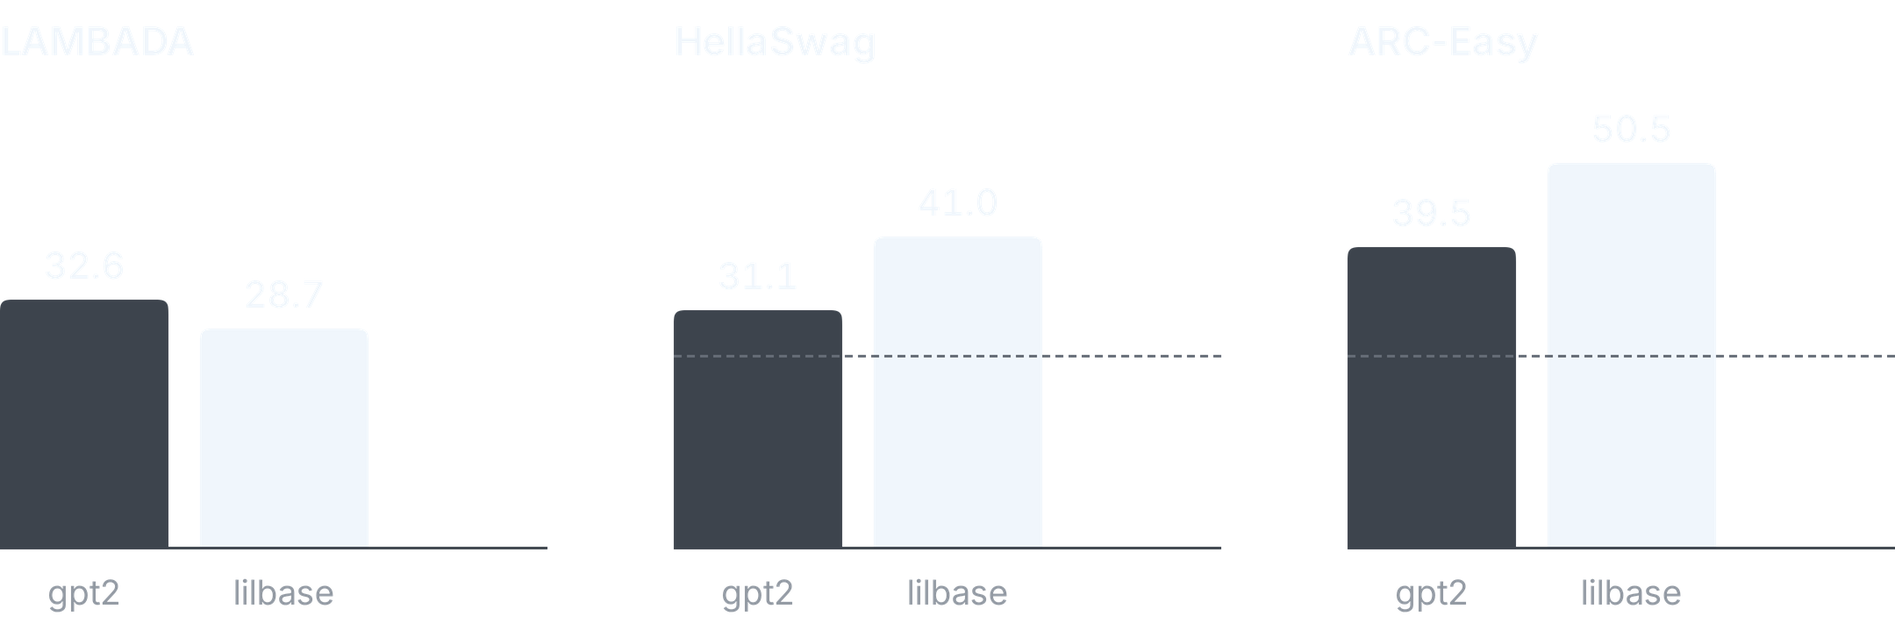
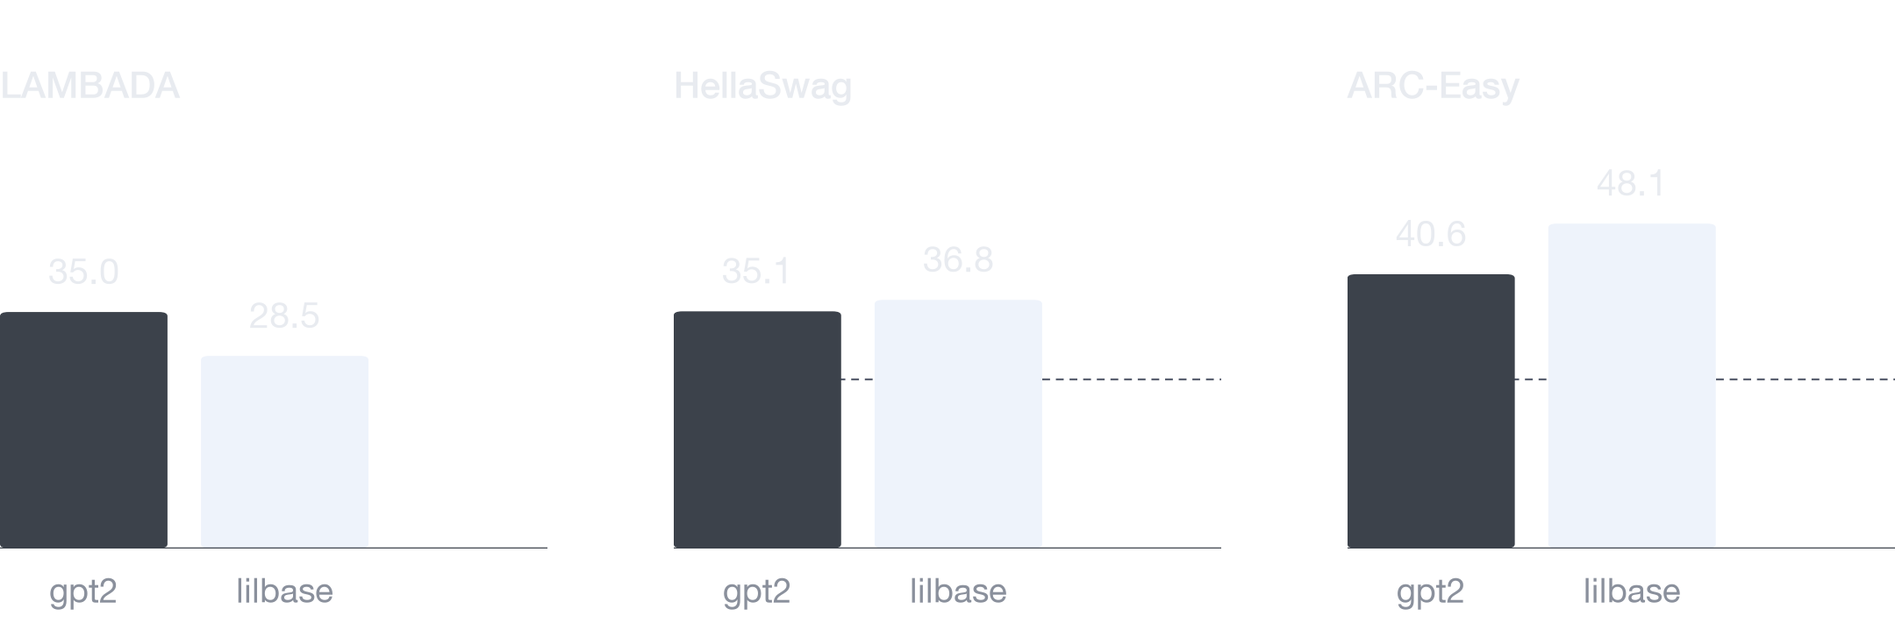
final gpt-2 benchmark numbers, lilbase hellaswag fixed

diff --git a/work/sprout.html b/work/sprout.html
@@ -226,22 +226,24 @@
 <div class="cs-sec" data-reveal data-label="vs gpt-2">
         <h2 class="cs-h">vs gpt-2</h2>
         <div class="cs-text">
-          <p>i put sprout through the same test script as openai's gpt-2, which came out in 2019 in four sizes, from 124m up to 1.5b params. lilbase is in there too. each test is a few thousand questions none of the models trained on, every model gets the exact same ones, and it all runs on my macbook.</p>
-          <p>on <strong>arc-easy</strong>, which is grade school science questions, sprout gets <strong>50.3%</strong> and lilbase gets 48.1%. both beat gpt-2 medium at 44.7%, and lilbase is smaller than it. on <strong>lambada</strong>, where you guess the last word of a passage from a novel, gpt-2 wins: medium gets 44.3%, sprout 39.2% and lilbase 28.5%.</p>
-          <div class="fig bench" data-live><div class="bench-grid"><div class="bench-panel"><p class="bench-title"><b>arc-easy</b> <span>grade school science questions</span></p><svg viewBox="0 0 300 230" role="img" aria-label="arc-easy: score against model size" font-family="Geist, Helvetica Neue, Helvetica, sans-serif" font-size="11" fill="#929292"><line class="b-grid" stroke="#ececea" stroke-width="1" x1="34" x2="286" y1="190.0" y2="190.0"/><text x="28" y="194.0" text-anchor="end">35%</text><line class="b-grid" stroke="#ececea" stroke-width="1" x1="34" x2="286" y1="146.5" y2="146.5"/><text x="28" y="150.5" text-anchor="end">40%</text><line class="b-grid" stroke="#ececea" stroke-width="1" x1="34" x2="286" y1="103.0" y2="103.0"/><text x="28" y="107.0" text-anchor="end">45%</text><line class="b-grid" stroke="#ececea" stroke-width="1" x1="34" x2="286" y1="59.5" y2="59.5"/><text x="28" y="63.5" text-anchor="end">50%</text><line class="b-grid" stroke="#ececea" stroke-width="1" x1="34" x2="286" y1="16.0" y2="16.0"/><text x="28" y="20.0" text-anchor="end">55%</text><text x="52.1" y="208" text-anchor="middle">124m</text><text x="140.6" y="208" text-anchor="middle">355m</text><text x="206.1" y="208" text-anchor="middle">774m</text><text x="265.0" y="208" text-anchor="middle">1.5b</text><text x="160.0" y="226" text-anchor="middle" class="b-axis" fill="#767676">model size (params)</text><path class="b-gpt2" fill="none" stroke="#c9c9c6" stroke-width="2" stroke-linejoin="round" d="M52.4 141.2 L140.5 105.6"/><circle class="b-gpt2-dot" fill="#c9c9c6" cx="52.4" cy="141.2" r="3.5"/><text class="b-gpt2-lab" font-size="10" x="52.4" y="156.2" text-anchor="middle">small</text><circle class="b-gpt2-dot" fill="#c9c9c6" cx="140.5" cy="105.6" r="3.5"/><text class="b-gpt2-lab" font-size="10" x="140.5" y="120.6" text-anchor="middle">medium</text><circle class="b-me" fill="#0f0f0f" cx="173.1" cy="57.3" r="5"/><text class="b-me-lab" fill="#0f0f0f" font-size="11.5" font-weight="500" x="173.1" y="46.3" text-anchor="middle">sprout 50.3</text><circle class="b-me2" fill="#ffffff" stroke="#0f0f0f" stroke-width="1.6" cx="125.6" cy="76.0" r="5"/><text class="b-me-lab" fill="#0f0f0f" font-size="11.5" font-weight="500" x="125.6" y="65.0" text-anchor="middle">lilbase 48.1</text></svg></div><div class="bench-panel"><p class="bench-title"><b>lambada</b> <span>guessing the last word of a passage</span></p><svg viewBox="0 0 300 230" role="img" aria-label="lambada: score against model size" font-family="Geist, Helvetica Neue, Helvetica, sans-serif" font-size="11" fill="#929292"><line class="b-grid" stroke="#ececea" stroke-width="1" x1="34" x2="286" y1="190.0" y2="190.0"/><text x="28" y="194.0" text-anchor="end">25%</text><line class="b-grid" stroke="#ececea" stroke-width="1" x1="34" x2="286" y1="155.2" y2="155.2"/><text x="28" y="159.2" text-anchor="end">30%</text><line class="b-grid" stroke="#ececea" stroke-width="1" x1="34" x2="286" y1="120.4" y2="120.4"/><text x="28" y="124.4" text-anchor="end">35%</text><line class="b-grid" stroke="#ececea" stroke-width="1" x1="34" x2="286" y1="85.6" y2="85.6"/><text x="28" y="89.6" text-anchor="end">40%</text><line class="b-grid" stroke="#ececea" stroke-width="1" x1="34" x2="286" y1="50.8" y2="50.8"/><text x="28" y="54.8" text-anchor="end">45%</text><line class="b-grid" stroke="#ececea" stroke-width="1" x1="34" x2="286" y1="16.0" y2="16.0"/><text x="28" y="20.0" text-anchor="end">50%</text><text x="52.1" y="208" text-anchor="middle">124m</text><text x="140.6" y="208" text-anchor="middle">355m</text><text x="206.1" y="208" text-anchor="middle">774m</text><text x="265.0" y="208" text-anchor="middle">1.5b</text><text x="160.0" y="226" text-anchor="middle" class="b-axis" fill="#767676">model size (params)</text><path class="b-gpt2" fill="none" stroke="#c9c9c6" stroke-width="2" stroke-linejoin="round" d="M52.4 120.4 L140.5 55.7"/><circle class="b-gpt2-dot" fill="#c9c9c6" cx="52.4" cy="120.4" r="3.5"/><text class="b-gpt2-lab" font-size="10" x="52.4" y="135.4" text-anchor="middle">small</text><circle class="b-gpt2-dot" fill="#c9c9c6" cx="140.5" cy="55.7" r="3.5"/><text class="b-gpt2-lab" font-size="10" x="140.5" y="70.7" text-anchor="middle">medium</text><circle class="b-me" fill="#0f0f0f" cx="173.1" cy="90.8" r="5"/><text class="b-me-lab" fill="#0f0f0f" font-size="11.5" font-weight="500" x="173.1" y="109.8" text-anchor="middle">sprout 39.2</text><circle class="b-me2" fill="#ffffff" stroke="#0f0f0f" stroke-width="1.6" cx="125.6" cy="165.6" r="5"/><text class="b-me-lab" fill="#0f0f0f" font-size="11.5" font-weight="500" x="125.6" y="184.6" text-anchor="middle">lilbase 28.5</text></svg></div></div><div class="bench-key"><span><i class="k-me"></i>sprout (chat version), 523m</span><span><i class="k-me2"></i>lilbase, 297m</span><span><i class="k-gpt2"></i>openai gpt-2, 2 sizes so far</span></div><p class="cap muted">higher is better. a dot above the grey line beats a gpt-2 of the same size. same test script for every model, on my macbook</p></div>
+          <p>i put sprout through the same test script as openai gpt-2, which came out in 2019 in four sizes, from 124m up to 1.5b params. lilbase is in there too. each test is a few thousand questions none of the models trained on, every model gets the exact same ones, and it all runs on my macbook.</p>
+          <p>on <strong>arc-easy</strong>, which is grade school science questions, sprout gets <strong>50.2%</strong> and beats every gpt-2, even xl at 49.8%, which is three times its size. lilbase gets 48.1%, ahead of small and medium and basically tied with large. on <strong>hellaswag</strong>, where you pick the ending that makes sense for a short everyday story, sprout gets 40.6%, level with gpt-2 medium (40.2%) and behind large and xl. lilbase just edges out gpt-2 small, 36.8% to 35.1%. on <strong>lambada</strong>, where you guess the last word of a passage from a novel, gpt-2 wins clearly: sprout gets 39.2%, between small and medium, and lilbase 28.5%.</p>
+          <div class="fig bench" data-live><div class="bench-grid"><div class="bench-panel"><p class="bench-title"><b>hellaswag</b> <span>picking the sensible ending to a short scene</span></p><svg viewBox="0 0 300 230" role="img" aria-label="hellaswag: score against model size" font-family="Geist, Helvetica Neue, Helvetica, sans-serif" font-size="11" fill="#929292"><line class="b-grid" stroke="#ececea" stroke-width="1" x1="34" x2="286" y1="190.0" y2="190.0"/><text x="28" y="194.0" text-anchor="end">30%</text><line class="b-grid" stroke="#ececea" stroke-width="1" x1="34" x2="286" y1="146.5" y2="146.5"/><text x="28" y="150.5" text-anchor="end">35%</text><line class="b-grid" stroke="#ececea" stroke-width="1" x1="34" x2="286" y1="103.0" y2="103.0"/><text x="28" y="107.0" text-anchor="end">40%</text><line class="b-grid" stroke="#ececea" stroke-width="1" x1="34" x2="286" y1="59.5" y2="59.5"/><text x="28" y="63.5" text-anchor="end">45%</text><line class="b-grid" stroke="#ececea" stroke-width="1" x1="34" x2="286" y1="16.0" y2="16.0"/><text x="28" y="20.0" text-anchor="end">50%</text><text x="52.1" y="208" text-anchor="middle">124m</text><text x="140.6" y="208" text-anchor="middle">355m</text><text x="206.1" y="208" text-anchor="middle">774m</text><text x="265.0" y="208" text-anchor="middle">1.5b</text><text x="160.0" y="226" text-anchor="middle" class="b-axis" fill="#767676">model size (params)</text><path class="b-gpt2" fill="none" stroke="#c9c9c6" stroke-width="2" stroke-linejoin="round" d="M52.4 145.6 L140.5 101.3 L206.1 81.2 L265.0 49.9"/><circle class="b-gpt2-dot" fill="#c9c9c6" cx="52.4" cy="145.6" r="3.5"/><text class="b-gpt2-lab" font-size="10" x="52.4" y="160.6" text-anchor="middle">small</text><circle class="b-gpt2-dot" fill="#c9c9c6" cx="140.5" cy="101.3" r="3.5"/><text class="b-gpt2-lab" font-size="10" x="140.5" y="116.3" text-anchor="middle">medium</text><circle class="b-gpt2-dot" fill="#c9c9c6" cx="206.1" cy="81.2" r="3.5"/><text class="b-gpt2-lab" font-size="10" x="206.1" y="96.2" text-anchor="middle">large</text><circle class="b-gpt2-dot" fill="#c9c9c6" cx="265.0" cy="49.9" r="3.5"/><text class="b-gpt2-lab" font-size="10" x="265.0" y="64.9" text-anchor="middle">xl</text><circle class="b-me" fill="#0f0f0f" cx="173.1" cy="98.2" r="5"/><text class="b-me-lab" fill="#0f0f0f" font-size="11.5" font-weight="500" x="173.1" y="87.2" text-anchor="middle">sprout 40.6</text><circle class="b-me2" fill="#ffffff" stroke="#0f0f0f" stroke-width="1.6" cx="125.6" cy="131.3" r="5"/><text class="b-me-lab" fill="#0f0f0f" font-size="11.5" font-weight="500" x="125.6" y="150.3" text-anchor="middle">lilbase 36.8</text></svg></div><div class="bench-panel"><p class="bench-title"><b>arc-easy</b> <span>grade school science questions</span></p><svg viewBox="0 0 300 230" role="img" aria-label="arc-easy: score against model size" font-family="Geist, Helvetica Neue, Helvetica, sans-serif" font-size="11" fill="#929292"><line class="b-grid" stroke="#ececea" stroke-width="1" x1="34" x2="286" y1="190.0" y2="190.0"/><text x="28" y="194.0" text-anchor="end">35%</text><line class="b-grid" stroke="#ececea" stroke-width="1" x1="34" x2="286" y1="146.5" y2="146.5"/><text x="28" y="150.5" text-anchor="end">40%</text><line class="b-grid" stroke="#ececea" stroke-width="1" x1="34" x2="286" y1="103.0" y2="103.0"/><text x="28" y="107.0" text-anchor="end">45%</text><line class="b-grid" stroke="#ececea" stroke-width="1" x1="34" x2="286" y1="59.5" y2="59.5"/><text x="28" y="63.5" text-anchor="end">50%</text><line class="b-grid" stroke="#ececea" stroke-width="1" x1="34" x2="286" y1="16.0" y2="16.0"/><text x="28" y="20.0" text-anchor="end">55%</text><text x="52.1" y="208" text-anchor="middle">124m</text><text x="140.6" y="208" text-anchor="middle">355m</text><text x="206.1" y="208" text-anchor="middle">774m</text><text x="265.0" y="208" text-anchor="middle">1.5b</text><text x="160.0" y="226" text-anchor="middle" class="b-axis" fill="#767676">model size (params)</text><path class="b-gpt2" fill="none" stroke="#c9c9c6" stroke-width="2" stroke-linejoin="round" d="M52.4 141.2 L140.5 105.6 L206.1 72.7 L265.0 61.0"/><circle class="b-gpt2-dot" fill="#c9c9c6" cx="52.4" cy="141.2" r="3.5"/><text class="b-gpt2-lab" font-size="10" x="52.4" y="156.2" text-anchor="middle">small</text><circle class="b-gpt2-dot" fill="#c9c9c6" cx="140.5" cy="105.6" r="3.5"/><text class="b-gpt2-lab" font-size="10" x="140.5" y="120.6" text-anchor="middle">medium</text><circle class="b-gpt2-dot" fill="#c9c9c6" cx="206.1" cy="72.7" r="3.5"/><text class="b-gpt2-lab" font-size="10" x="206.1" y="87.7" text-anchor="middle">large</text><circle class="b-gpt2-dot" fill="#c9c9c6" cx="265.0" cy="61.0" r="3.5"/><text class="b-gpt2-lab" font-size="10" x="265.0" y="76.0" text-anchor="middle">xl</text><circle class="b-me" fill="#0f0f0f" cx="173.1" cy="57.3" r="5"/><text class="b-me-lab" fill="#0f0f0f" font-size="11.5" font-weight="500" x="173.1" y="46.3" text-anchor="middle">sprout 50.3</text><circle class="b-me2" fill="#ffffff" stroke="#0f0f0f" stroke-width="1.6" cx="125.6" cy="76.0" r="5"/><text class="b-me-lab" fill="#0f0f0f" font-size="11.5" font-weight="500" x="125.6" y="65.0" text-anchor="middle">lilbase 48.1</text></svg></div><div class="bench-panel"><p class="bench-title"><b>lambada</b> <span>guessing the last word of a passage</span></p><svg viewBox="0 0 300 230" role="img" aria-label="lambada: score against model size" font-family="Geist, Helvetica Neue, Helvetica, sans-serif" font-size="11" fill="#929292"><line class="b-grid" stroke="#ececea" stroke-width="1" x1="34" x2="286" y1="190.0" y2="190.0"/><text x="28" y="194.0" text-anchor="end">25%</text><line class="b-grid" stroke="#ececea" stroke-width="1" x1="34" x2="286" y1="132.0" y2="132.0"/><text x="28" y="136.0" text-anchor="end">35%</text><line class="b-grid" stroke="#ececea" stroke-width="1" x1="34" x2="286" y1="74.0" y2="74.0"/><text x="28" y="78.0" text-anchor="end">45%</text><line class="b-grid" stroke="#ececea" stroke-width="1" x1="34" x2="286" y1="16.0" y2="16.0"/><text x="28" y="20.0" text-anchor="end">55%</text><text x="52.1" y="208" text-anchor="middle">124m</text><text x="140.6" y="208" text-anchor="middle">355m</text><text x="206.1" y="208" text-anchor="middle">774m</text><text x="265.0" y="208" text-anchor="middle">1.5b</text><text x="160.0" y="226" text-anchor="middle" class="b-axis" fill="#767676">model size (params)</text><path class="b-gpt2" fill="none" stroke="#c9c9c6" stroke-width="2" stroke-linejoin="round" d="M52.4 132.0 L140.5 78.1 L206.1 52.8 L265.0 38.0"/><circle class="b-gpt2-dot" fill="#c9c9c6" cx="52.4" cy="132.0" r="3.5"/><text class="b-gpt2-lab" font-size="10" x="52.4" y="147.0" text-anchor="middle">small</text><circle class="b-gpt2-dot" fill="#c9c9c6" cx="140.5" cy="78.1" r="3.5"/><text class="b-gpt2-lab" font-size="10" x="140.5" y="93.1" text-anchor="middle">medium</text><circle class="b-gpt2-dot" fill="#c9c9c6" cx="206.1" cy="52.8" r="3.5"/><text class="b-gpt2-lab" font-size="10" x="206.1" y="67.8" text-anchor="middle">large</text><circle class="b-gpt2-dot" fill="#c9c9c6" cx="265.0" cy="38.0" r="3.5"/><text class="b-gpt2-lab" font-size="10" x="265.0" y="53.0" text-anchor="middle">xl</text><circle class="b-me" fill="#0f0f0f" cx="173.1" cy="107.4" r="5"/><text class="b-me-lab" fill="#0f0f0f" font-size="11.5" font-weight="500" x="173.1" y="126.4" text-anchor="middle">sprout 39.2</text><circle class="b-me2" fill="#ffffff" stroke="#0f0f0f" stroke-width="1.6" cx="125.6" cy="169.7" r="5"/><text class="b-me-lab" fill="#0f0f0f" font-size="11.5" font-weight="500" x="125.6" y="188.7" text-anchor="middle">lilbase 28.5</text></svg></div></div><div class="bench-key"><span><i class="k-me"></i>sprout (chat version), 523m</span><span><i class="k-me2"></i>lilbase, 297m</span><span><i class="k-gpt2"></i>openai gpt-2, 4 sizes</span></div><p class="cap muted">higher is better. a dot above the grey line beats a gpt-2 of the same size. same test script for every model, on my macbook</p></div>
           <details class="table-view">
           <summary>see the numbers</summary>
           <table>
-            <thead><tr><th>model</th><th class="num">params</th><th class="num">arc-easy</th><th class="num">lambada</th></tr></thead>
+            <thead><tr><th>model</th><th class="num">params</th><th class="num">hellaswag</th><th class="num">arc-easy</th><th class="num">lambada</th></tr></thead>
             <tbody>
-            <tr><td>gpt-2 small</td><td class="num">124m</td><td class="num">40.6%</td><td class="num">35.0%</td></tr>
-            <tr><td>lilbase</td><td class="num">297m</td><td class="num">48.1%</td><td class="num">28.5%</td></tr>
-            <tr><td>gpt-2 medium</td><td class="num">355m</td><td class="num">44.7%</td><td class="num">44.3%</td></tr>
-            <tr class="hi"><td>sprout (chat)</td><td class="num">523m</td><td class="num">50.3%</td><td class="num">39.2%</td></tr>
+            <tr><td>gpt-2 small</td><td class="num">124m</td><td class="num">35.1%</td><td class="num">40.6%</td><td class="num">35.0%</td></tr>
+            <tr><td>lilbase</td><td class="num">297m</td><td class="num">36.8%</td><td class="num">48.1%</td><td class="num">28.5%</td></tr>
+            <tr><td>gpt-2 medium</td><td class="num">355m</td><td class="num">40.2%</td><td class="num">44.7%</td><td class="num">44.3%</td></tr>
+            <tr class="hi"><td>sprout (chat)</td><td class="num">523m</td><td class="num">40.6%</td><td class="num">50.3%</td><td class="num">39.2%</td></tr>
+            <tr><td>gpt-2 large</td><td class="num">774m</td><td class="num">42.5%</td><td class="num">48.5%</td><td class="num">48.6%</td></tr>
+            <tr><td>gpt-2 xl</td><td class="num">1.5b</td><td class="num">46.1%</td><td class="num">49.8%</td><td class="num">51.2%</td></tr>
             </tbody>
           </table>
         </details>
-          <p>this is the chat version of sprout, the base weights are still on kaggle, and chat finetuning usually costs a few points on tests like these. gpt-2 large and xl are still running, and hellaswag is getting rerun because of a bug in how it was scored (the story and the answer got glued together with no space). ill update this when theyre done.</p>
+          <p>so sprout is about as good as a gpt-2 its size, better on science questions and worse at finishing sentences from books. my guess is the data. sprout mostly read educational web pages and textbook style text, gpt-2 read pages people linked on reddit, and lambada is all novels. this is also the chat version, the base weights are still on kaggle, and chat finetuning usually costs a few points on tests like these.</p>
         </div>
       </div>
 
@@ -251,7 +253,7 @@
         <div class="cs-text">
           <p><strong>one:</strong> beat gpt-2 xl, which is 1.5b params, or get close to it.</p>
           <p><strong>two:</strong> finetune it into a competitive coding model at around 500m.</p>
-          <p>the first benchmark results are above. gpt-2 large and xl are still running.</p>
+          <p>the benchmark results are above. sprout beats gpt-2 xl on arc-easy but not on hellaswag or lambada yet, so goal one is about a third done.</p>
         </div>
       </div>
     </section>

diff --git a/work/lilbase.html b/work/lilbase.html
@@ -79,16 +79,16 @@
           <div class="legend"><span><i style="background: var(--ink)"></i>lilbase, 297m</span><span><i style="background: #c9c9c6"></i>gpt-2 small, 124m</span></div>
           <div class="hbars">
             <div class="hbar-group"><span>hellaswag</span>
-              <div class="hbar" style="--k: 0"><b style="--w: 68.3%; background: var(--ink)"></b><em>41.0%</em></div>
-              <div class="hbar" style="--k: 1"><b style="--w: 51.8%; background: #c9c9c6"></b><em>31.1%</em></div>
+              <div class="hbar" style="--k: 0"><b style="--w: 61.3%; background: var(--ink)"></b><em>36.8%</em></div>
+              <div class="hbar" style="--k: 1"><b style="--w: 58.5%; background: #c9c9c6"></b><em>35.1%</em></div>
             </div>
             <div class="hbar-group"><span>arc-easy</span>
-              <div class="hbar" style="--k: 2"><b style="--w: 84.2%; background: var(--ink)"></b><em>50.5%</em></div>
-              <div class="hbar" style="--k: 3"><b style="--w: 65.8%; background: #c9c9c6"></b><em>39.5%</em></div>
+              <div class="hbar" style="--k: 2"><b style="--w: 80.2%; background: var(--ink)"></b><em>48.1%</em></div>
+              <div class="hbar" style="--k: 3"><b style="--w: 67.7%; background: #c9c9c6"></b><em>40.6%</em></div>
             </div>
             <div class="hbar-group"><span>lambada</span>
-              <div class="hbar" style="--k: 4"><b style="--w: 47.8%; background: var(--ink)"></b><em>28.7%</em></div>
-              <div class="hbar" style="--k: 5"><b style="--w: 54.3%; background: #c9c9c6"></b><em>32.6%</em></div>
+              <div class="hbar" style="--k: 4"><b style="--w: 47.5%; background: var(--ink)"></b><em>28.5%</em></div>
+              <div class="hbar" style="--k: 5"><b style="--w: 58.3%; background: #c9c9c6"></b><em>35.0%</em></div>
             </div>
           </div>
           <details class="table-view">
@@ -96,9 +96,9 @@
             <table>
               <thead><tr><th>benchmark</th><th class="num">lilbase</th><th class="num">gpt-2 124m</th></tr></thead>
               <tbody>
-              <tr><td>hellaswag</td><td class="num">41.0%</td><td class="num">31.1%</td></tr>
-              <tr><td>arc-easy</td><td class="num">50.5%</td><td class="num">39.5%</td></tr>
-              <tr><td>lambada</td><td class="num">28.7%</td><td class="num">32.6%</td></tr>
+              <tr><td>hellaswag</td><td class="num">36.8%</td><td class="num">35.1%</td></tr>
+              <tr><td>arc-easy</td><td class="num">48.1%</td><td class="num">40.6%</td></tr>
+              <tr><td>lambada</td><td class="num">28.5%</td><td class="num">35.0%</td></tr>
               </tbody>
             </table>
           </details>
@@ -161,9 +161,10 @@
       <div class="cs-sec" data-reveal data-label="how it did">
         <h2 class="cs-h">how it did</h2>
         <div class="cs-text">
-          <p>every model goes through the same script, zero shot: the first 2000 hellaswag validation examples, 2000 lambada examples and the full arc-easy test set. multiple choice is scored by log likelihood, normalised by the length of each answer, and every sequence starts with an end of text token, the same way training did. <a href="https://github.com/navthings/lilbase/blob/main/eval/compare.py" target="_blank" rel="noopener">the script</a> is in the repo.</p>
+          <p>every model goes through the same script, zero shot: the first 2000 hellaswag validation examples, 2000 lambada examples and the full arc-easy test set. multiple choice is scored by log likelihood, normalised by the length of each answer, and every sequence starts with an end of text token, the same way training did. <a href="https://github.com/navthings/sprout/blob/main/eval/bench.py" target="_blank" rel="noopener">the script</a> lives in the sprout repo now, where lilbase gets tested alongside sprout and all four gpt-2 sizes.</p>
           <p>it beats gpt-2 small on hellaswag and arc-easy and loses on lambada. to be fair gpt-2 is from 2019, trained on different data, and lilbase is more than twice its size, so its not exactly a fair fight lol.</p>
-          <p>lambada perplexity came out at <strong>57.37</strong>. the learning rate was 4e-4, a bit above the 3e-4 gpt-3 350m used at a similar batch size, so slightly optimistic.</p>
+          <p>the old script, a smaller earlier test run, had lilbase way further ahead on hellaswag (41.0% vs 31.1%). rerunning everything through one fixed script, with the exact same questions for every model, its 36.8% vs 35.1%, so it still wins but only just.</p>
+          <p>lambada perplexity came out at <strong>53.78</strong>. the learning rate was 4e-4, a bit above the 3e-4 gpt-3 350m used at a similar batch size, so slightly optimistic.</p>
           <p>its a base model, so it just continues whatever you give it instead of answering. it gets grammar right and makes up most facts.</p>
           <code class="cmd sq">ollama run navthings/lilbase "The water cycle begins when"</code>
         </div>

diff --git a/index.html b/index.html
@@ -147,16 +147,16 @@
             <div class="legend"><span><i style="background: var(--ink)"></i>lilbase</span><span><i style="background: #c9c9c6"></i>gpt-2 small, 124m</span></div>
             <div class="hbars">
               <div class="hbar-group"><span>hellaswag</span>
-                <div class="hbar" style="--k: 0"><b style="--w: 68.3%; background: var(--ink)"></b><em>41.0%</em></div>
-                <div class="hbar" style="--k: 1"><b style="--w: 51.8%; background: #c9c9c6"></b><em>31.1%</em></div>
+                <div class="hbar" style="--k: 0"><b style="--w: 61.3%; background: var(--ink)"></b><em>36.8%</em></div>
+                <div class="hbar" style="--k: 1"><b style="--w: 58.5%; background: #c9c9c6"></b><em>35.1%</em></div>
               </div>
               <div class="hbar-group"><span>arc-easy</span>
-                <div class="hbar" style="--k: 2"><b style="--w: 84.2%; background: var(--ink)"></b><em>50.5%</em></div>
-                <div class="hbar" style="--k: 3"><b style="--w: 65.8%; background: #c9c9c6"></b><em>39.5%</em></div>
+                <div class="hbar" style="--k: 2"><b style="--w: 80.2%; background: var(--ink)"></b><em>48.1%</em></div>
+                <div class="hbar" style="--k: 3"><b style="--w: 67.7%; background: #c9c9c6"></b><em>40.6%</em></div>
               </div>
               <div class="hbar-group"><span>lambada</span>
-                <div class="hbar" style="--k: 4"><b style="--w: 47.8%; background: var(--ink)"></b><em>28.7%</em></div>
-                <div class="hbar" style="--k: 5"><b style="--w: 54.3%; background: #c9c9c6"></b><em>32.6%</em></div>
+                <div class="hbar" style="--k: 4"><b style="--w: 47.5%; background: var(--ink)"></b><em>28.5%</em></div>
+                <div class="hbar" style="--k: 5"><b style="--w: 58.3%; background: #c9c9c6"></b><em>35.0%</em></div>
               </div>
             </div>
           </div>

diff --git a/blog/lilbase.html b/blog/lilbase.html
@@ -86,12 +86,13 @@
         <table data-reveal>
         <thead><tr><th>benchmark</th><th class="num">lilbase</th><th class="num">gpt-2 124m</th></tr></thead>
         <tbody>
-        <tr><td>hellaswag</td><td class="num">41.0%</td><td class="num">31.1%</td></tr>
-        <tr><td>arc-easy</td><td class="num">50.5%</td><td class="num">39.5%</td></tr>
-        <tr><td>lambada</td><td class="num">28.7%</td><td class="num">32.6%</td></tr>
+        <tr><td>hellaswag</td><td class="num">36.8%</td><td class="num">35.1%</td></tr>
+        <tr><td>arc-easy</td><td class="num">48.1%</td><td class="num">40.6%</td></tr>
+        <tr><td>lambada</td><td class="num">28.5%</td><td class="num">35.0%</td></tr>
         </tbody>
         </table>
         <p data-reveal>it beats gpt-2 small on hellaswag and arc-easy and loses on lambada. to be fair gpt-2 is from 2019, trained on different data, and lilbase is more than twice its size, so its not exactly a fair fight lol</p>
+        <p data-reveal>update: the old script, a smaller earlier test run, had lilbase way further ahead on hellaswag (41.0% vs 31.1%). rerunning everything through one fixed script, with the exact same questions for every model, its 36.8% vs 35.1%, so it still wins but only just.</p>
         <p data-reveal>stuff that went wrong: kaggle sometimes gives you a broken tpu with only 1 chip working instead of 8, so now the script just refuses to run unless it sees all 8. also doubling the batch size ran out of memory by like 400mb.</p>
         <pre data-reveal class="sq">ollama run navthings/lilbase "The water cycle begins when"</pre>
         <p data-reveal>its a base model so it just continues whatever you give it instead of answering. it gets grammar right and makes up most facts.</p>

diff --git a/blog/sprout.html b/blog/sprout.html
@@ -105,7 +105,7 @@
         <pre data-reveal class="sq">ollama run navthings/sprout</pre>
         <p data-reveal>or <a href="../playground/?model=sprout">try it in your browser</a>, its 345mb. the weights and ggufs are on <a href="https://huggingface.co/navthings/sprout" target="_blank" rel="noopener">hugging face</a>.</p>
         <h2 data-reveal data-label="next">next</h2>
-        <p data-reveal>the first benchmark results against gpt-2 are in the <a href="../work/sprout.html">case study</a>, with gpt-2 large and xl still running. then use sprout as the base for a coding model.</p>
+        <p data-reveal>the benchmark results against gpt-2 are in the <a href="../work/sprout.html">case study</a>. it beats every gpt-2 on arc-easy, matches gpt-2 medium on hellaswag and loses on lambada. next is using sprout as the base for a coding model.</p>
       </div>
 
       <a class="post-callout sq" href="../work/sprout.html" data-reveal>
